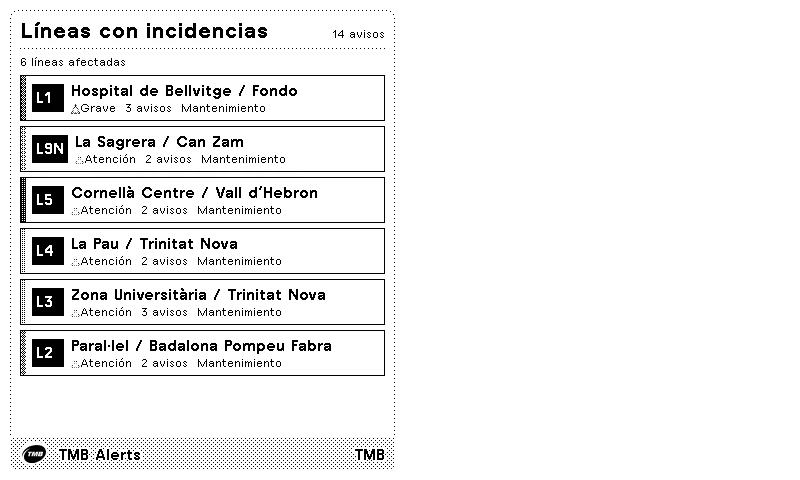
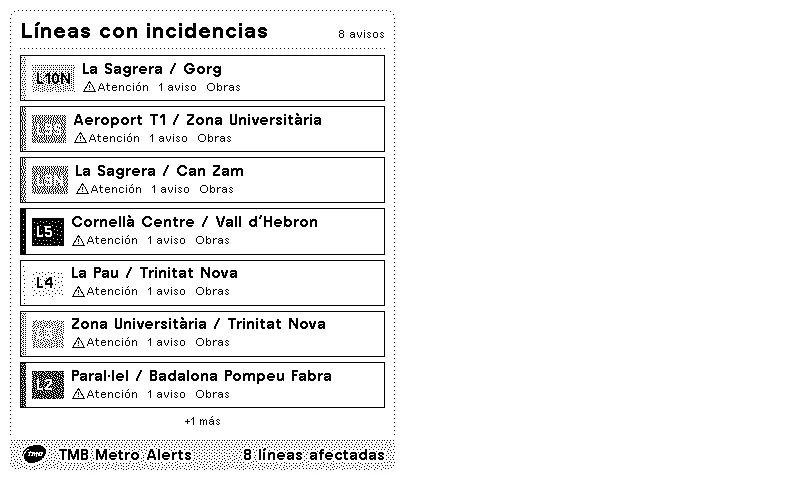
fix: show seven lines in half-vertical view

Changed region(s): [[0.0, 0.125, 0.4688, 0.8438], [0.0, 0.875, 0.5, 0.9688]]

diff --git a/TRMNL/README.md b/TRMNL/README.md
@@ -35,7 +35,7 @@ Previews use synthetic service notices and do not represent live TMB status.
 - **shared.liquid**: Feed normalization, translations, priority ordering, shared styles and the reusable line-card component.
 - **full.liquid**: All affected lines in a two-column grid, plus a QR link to TMB's live detail page.
 - **half_horizontal.liquid**: Up to four affected lines in a 2×2 grid.
-- **half_vertical.liquid**: Up to six affected lines in a single column.
+- **half_vertical.liquid**: Up to seven affected lines in a single column.
 - **quadrant.liquid**: The two highest-priority affected lines plus the remaining-line count.
 
 The layouts use Framework 3.3 responsive clamps, overflow handling and palette-aware color utilities. The same markup renders in grayscale, on the black/white/red/yellow BWRY palette, and at TRMNL X landscape or portrait sizes.
